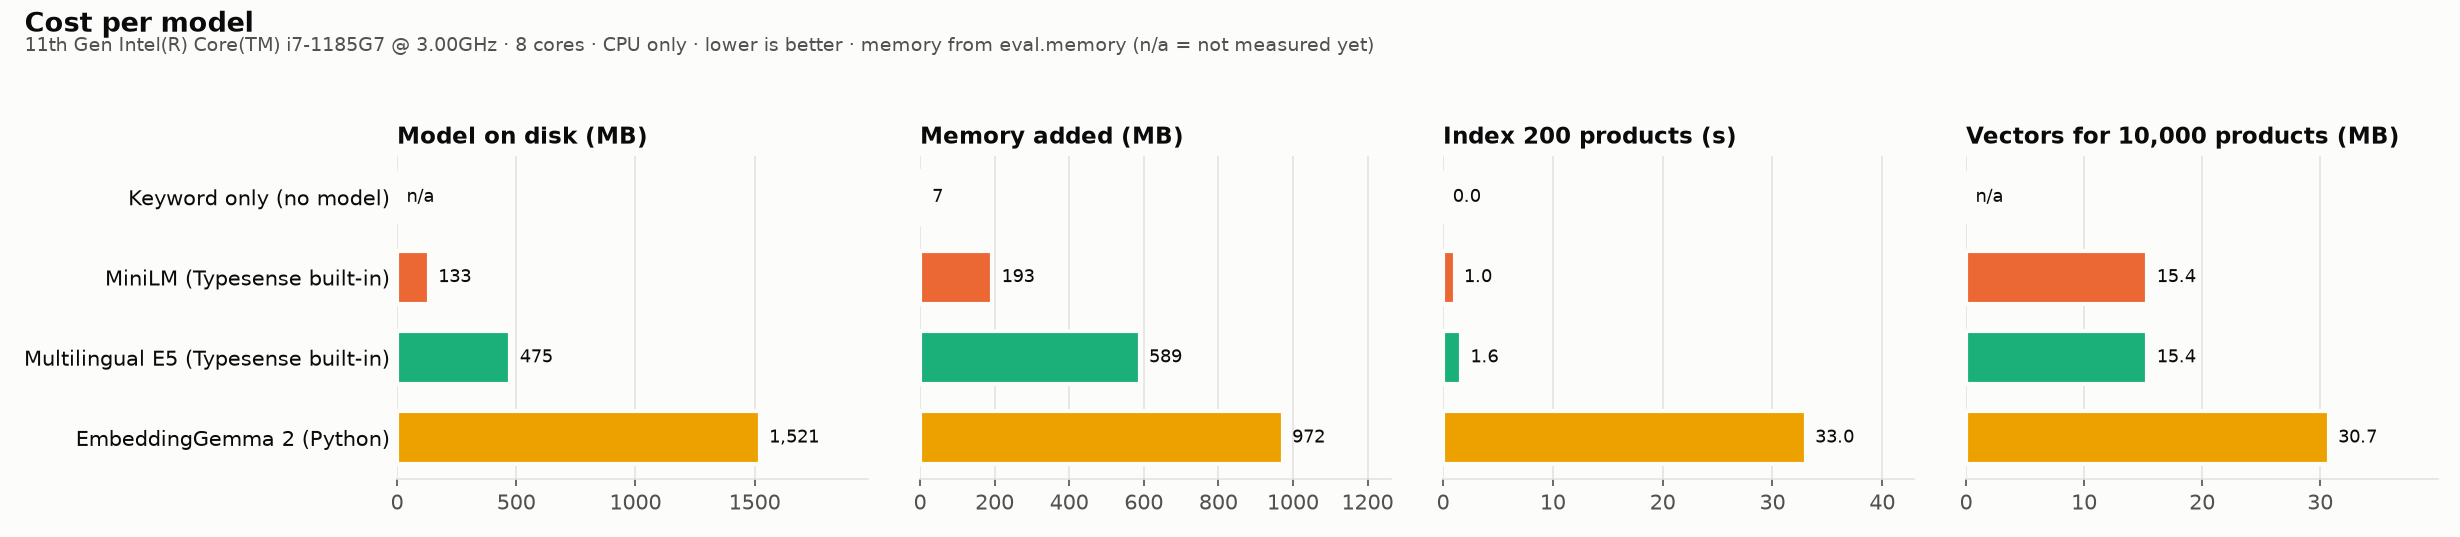
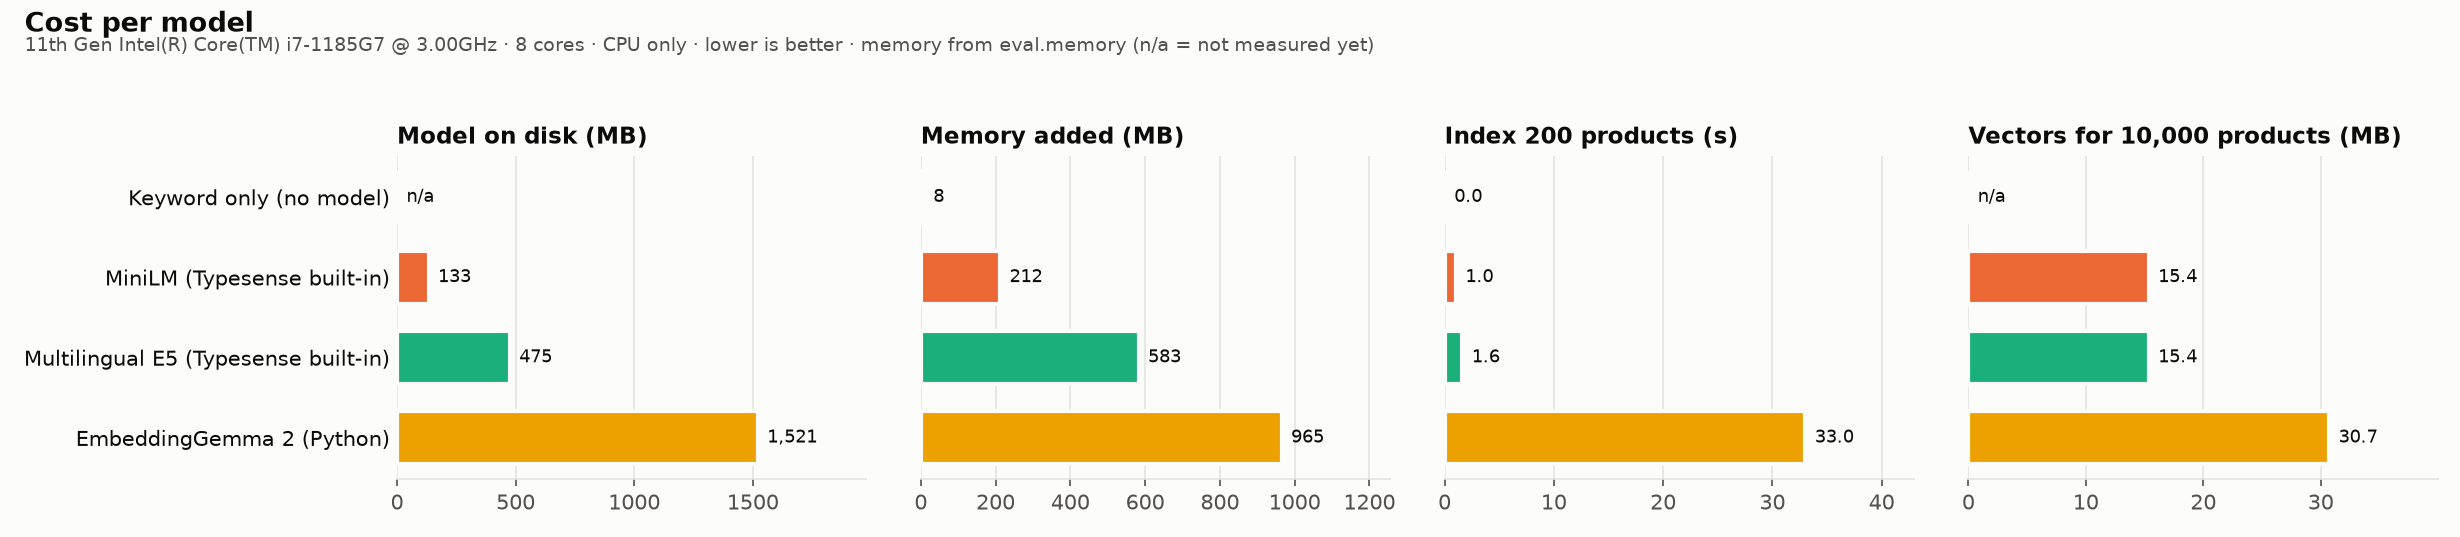
Load EmbeddingGemma text-only; explain model size vs Google's 191MB figure

diff --git a/shop/search.py b/shop/search.py
@@ -21,6 +21,13 @@ DEFAULT_MODEL = "google/embeddinggemma-2"
 DEFAULT_THRESHOLD = 0.65
 # How much an exact product-name match can add on top of the meaning score.
 DEFAULT_NAME_BONUS = 0.10
+# EmbeddingGemma 2 also has image (170M) and audio (300M) encoders. Text search never uses them,
+# so load only the 270M text part (as the model card recommends): same embeddings, far less memory.
+TEXT_ONLY = {"vision_config": None, "audio_config": None}
+
+
+def load_model(model_name=DEFAULT_MODEL):
+    return SentenceTransformer(model_name, config_kwargs=TEXT_ONLY)
 
 
 def load_products(path=DATA_DIR / "products.json"):
@@ -50,7 +57,7 @@ class ShopSearch:
         self.model_name = model_name
         self.threshold = threshold
         self.name_bonus = name_bonus
-        self.model = model or SentenceTransformer(model_name)
+        self.model = model or load_model(model_name)
         # Embed every product once, up front. A real site would save these to disk.
         self.product_vecs = self.model.encode_document([product_text(p) for p in products])
 

diff --git a/eval/setups.py b/eval/setups.py
@@ -13,7 +13,7 @@ Typesense's default blend.
 import time
 from dataclasses import dataclass
 
-from shop.search import DEFAULT_MODEL, ShopSearch, product_text
+from shop.search import DEFAULT_MODEL, ShopSearch, load_model, product_text
 from eval import measure
 
 TEXT_FIELDS = "name,brand,category,description"
@@ -234,9 +234,8 @@ class LoadedModel:
 
     def __init__(self, model_name, st=None):
         if st is None:
-            from sentence_transformers import SentenceTransformer
-            print(f"loading {model_name} ...", flush=True)
-            st = SentenceTransformer(model_name)
+            print(f"loading {model_name} (text only) ...", flush=True)
+            st = load_model(model_name)
         self.st = st
         self.name = model_name
         self.dim = st.get_embedding_dimension()

diff --git a/shop/api.py b/shop/api.py
@@ -7,13 +7,12 @@ Docs: http://localhost:8000/docs
 from contextlib import asynccontextmanager
 
 from fastapi import FastAPI, Query
-from sentence_transformers import SentenceTransformer
 
 from shop.compare import Comparer
-from shop.search import DEFAULT_MODEL, ShopSearch, load_products
+from shop.search import ShopSearch, load_model, load_products
 
 # Load EmbeddingGemma once; the shop search and the compare page share it.
-model = SentenceTransformer(DEFAULT_MODEL)
+model = load_model()
 shop = ShopSearch(load_products(), model=model)
 comparer = Comparer(shop.products, model)
 

diff --git a/eval/memory.py b/eval/memory.py
@@ -146,12 +146,10 @@ def measure_in_fresh_process(model_name):
 
 def measure_in_this_process(model_name):
     import torch  # noqa: F401  (imported before the baseline, like in the app)
-    from sentence_transformers import SentenceTransformer
-
-    from shop.search import product_text
+    from shop.search import load_model, product_text
 
     baseline = measure.process_memory()
-    model = SentenceTransformer(model_name)
+    model = load_model(model_name)
     after_load = measure.process_memory()
 
     model.encode_document([product_text(p) for p in load_products()])

diff --git a/README.md b/README.md
@@ -46,6 +46,13 @@ Mombasa" → a Kindle). The AI models say no more often, but get fooled by thing
 **5. Mind the cost.** EmbeddingGemma is a 1.5 GB download, uses about 1 GB of memory and took 33 s to
 prepare 200 products on my laptop. At 10,000+ products you would want a GPU.
 
+**About the size.** EmbeddingGemma 2 handles text, images, video and audio (740M parameters in total),
+but text search only needs its 270M-parameter text part. Google quotes ~191 MB of RAM for that part,
+*quantized on a phone*. This test runs it unquantized on a laptop CPU. I checked loading text only
+against loading everything: the embeddings are identical (so the accuracy results don't change), and
+on this laptop it barely saves anything (peak memory ~935 MB vs ~970 MB, ~0.14 s per search either way),
+because the unused image and audio parts were never really loaded. The code now loads text only.
+
 This is a small test, so treat it as a signal, not proof. More charts: [by question type](results/by_type.png),
 [speed](results/speed.png), [cost per model](results/cost.png). Every answer from every setup is in
 [results/results.json](results/results.json).
